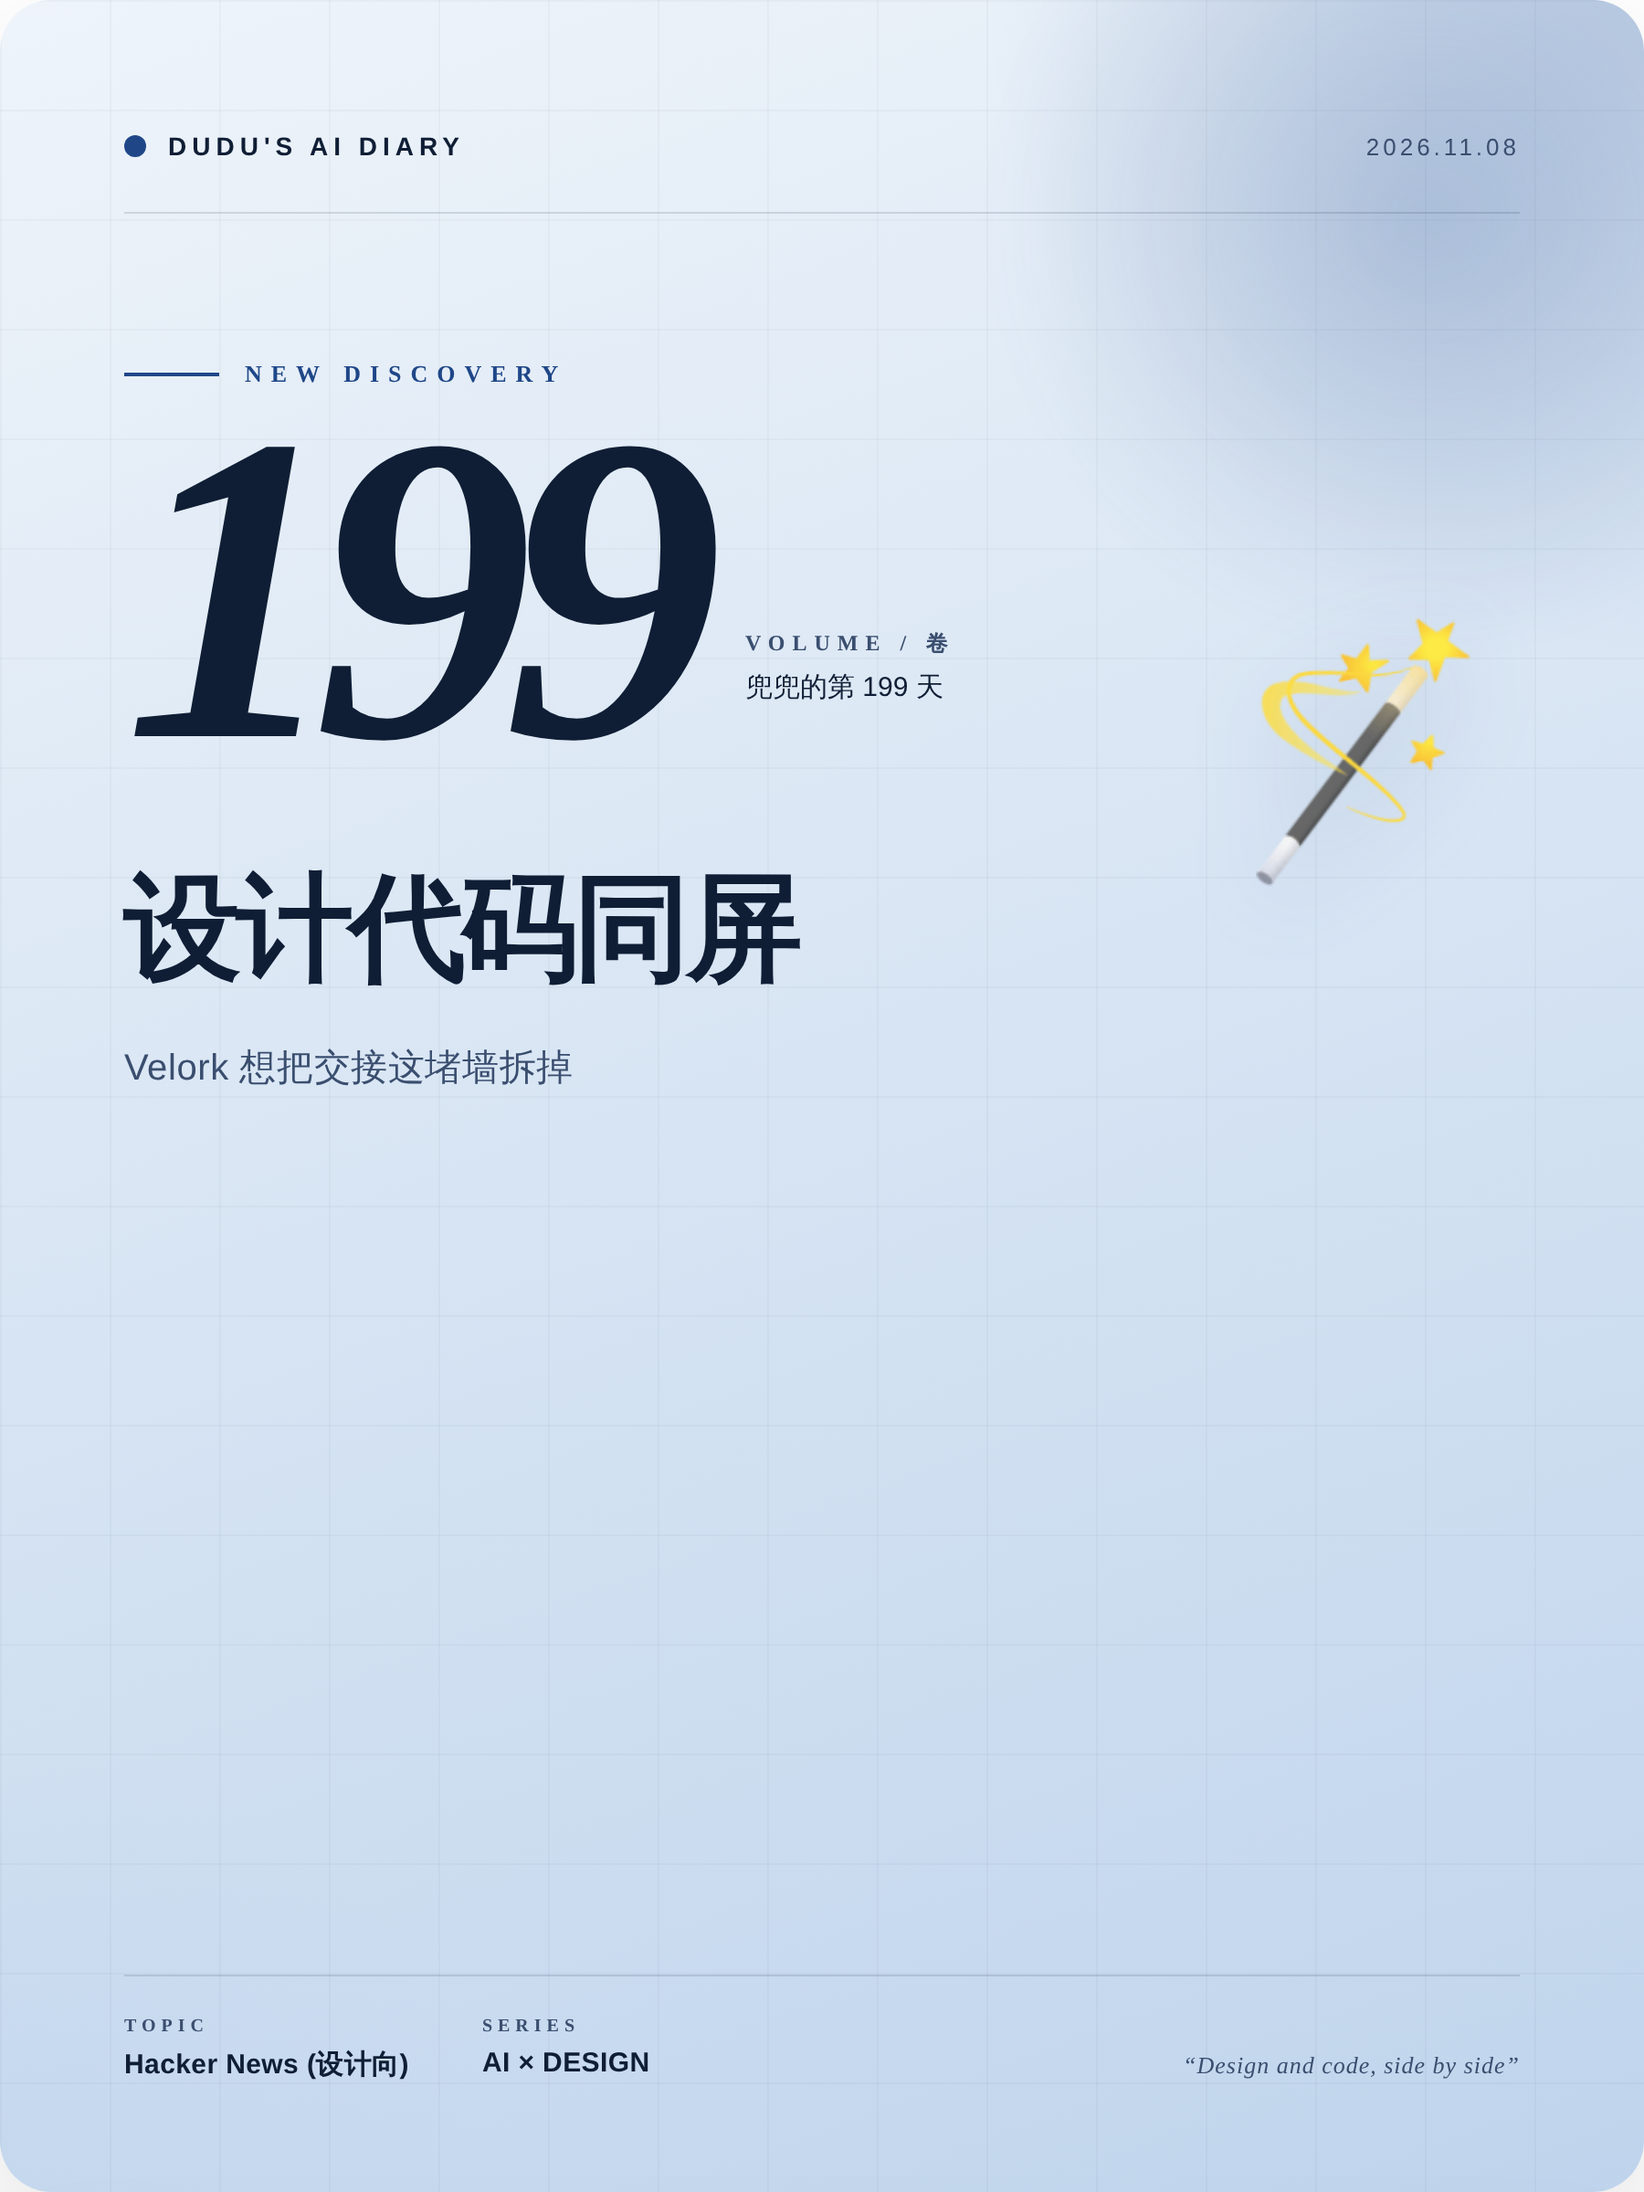
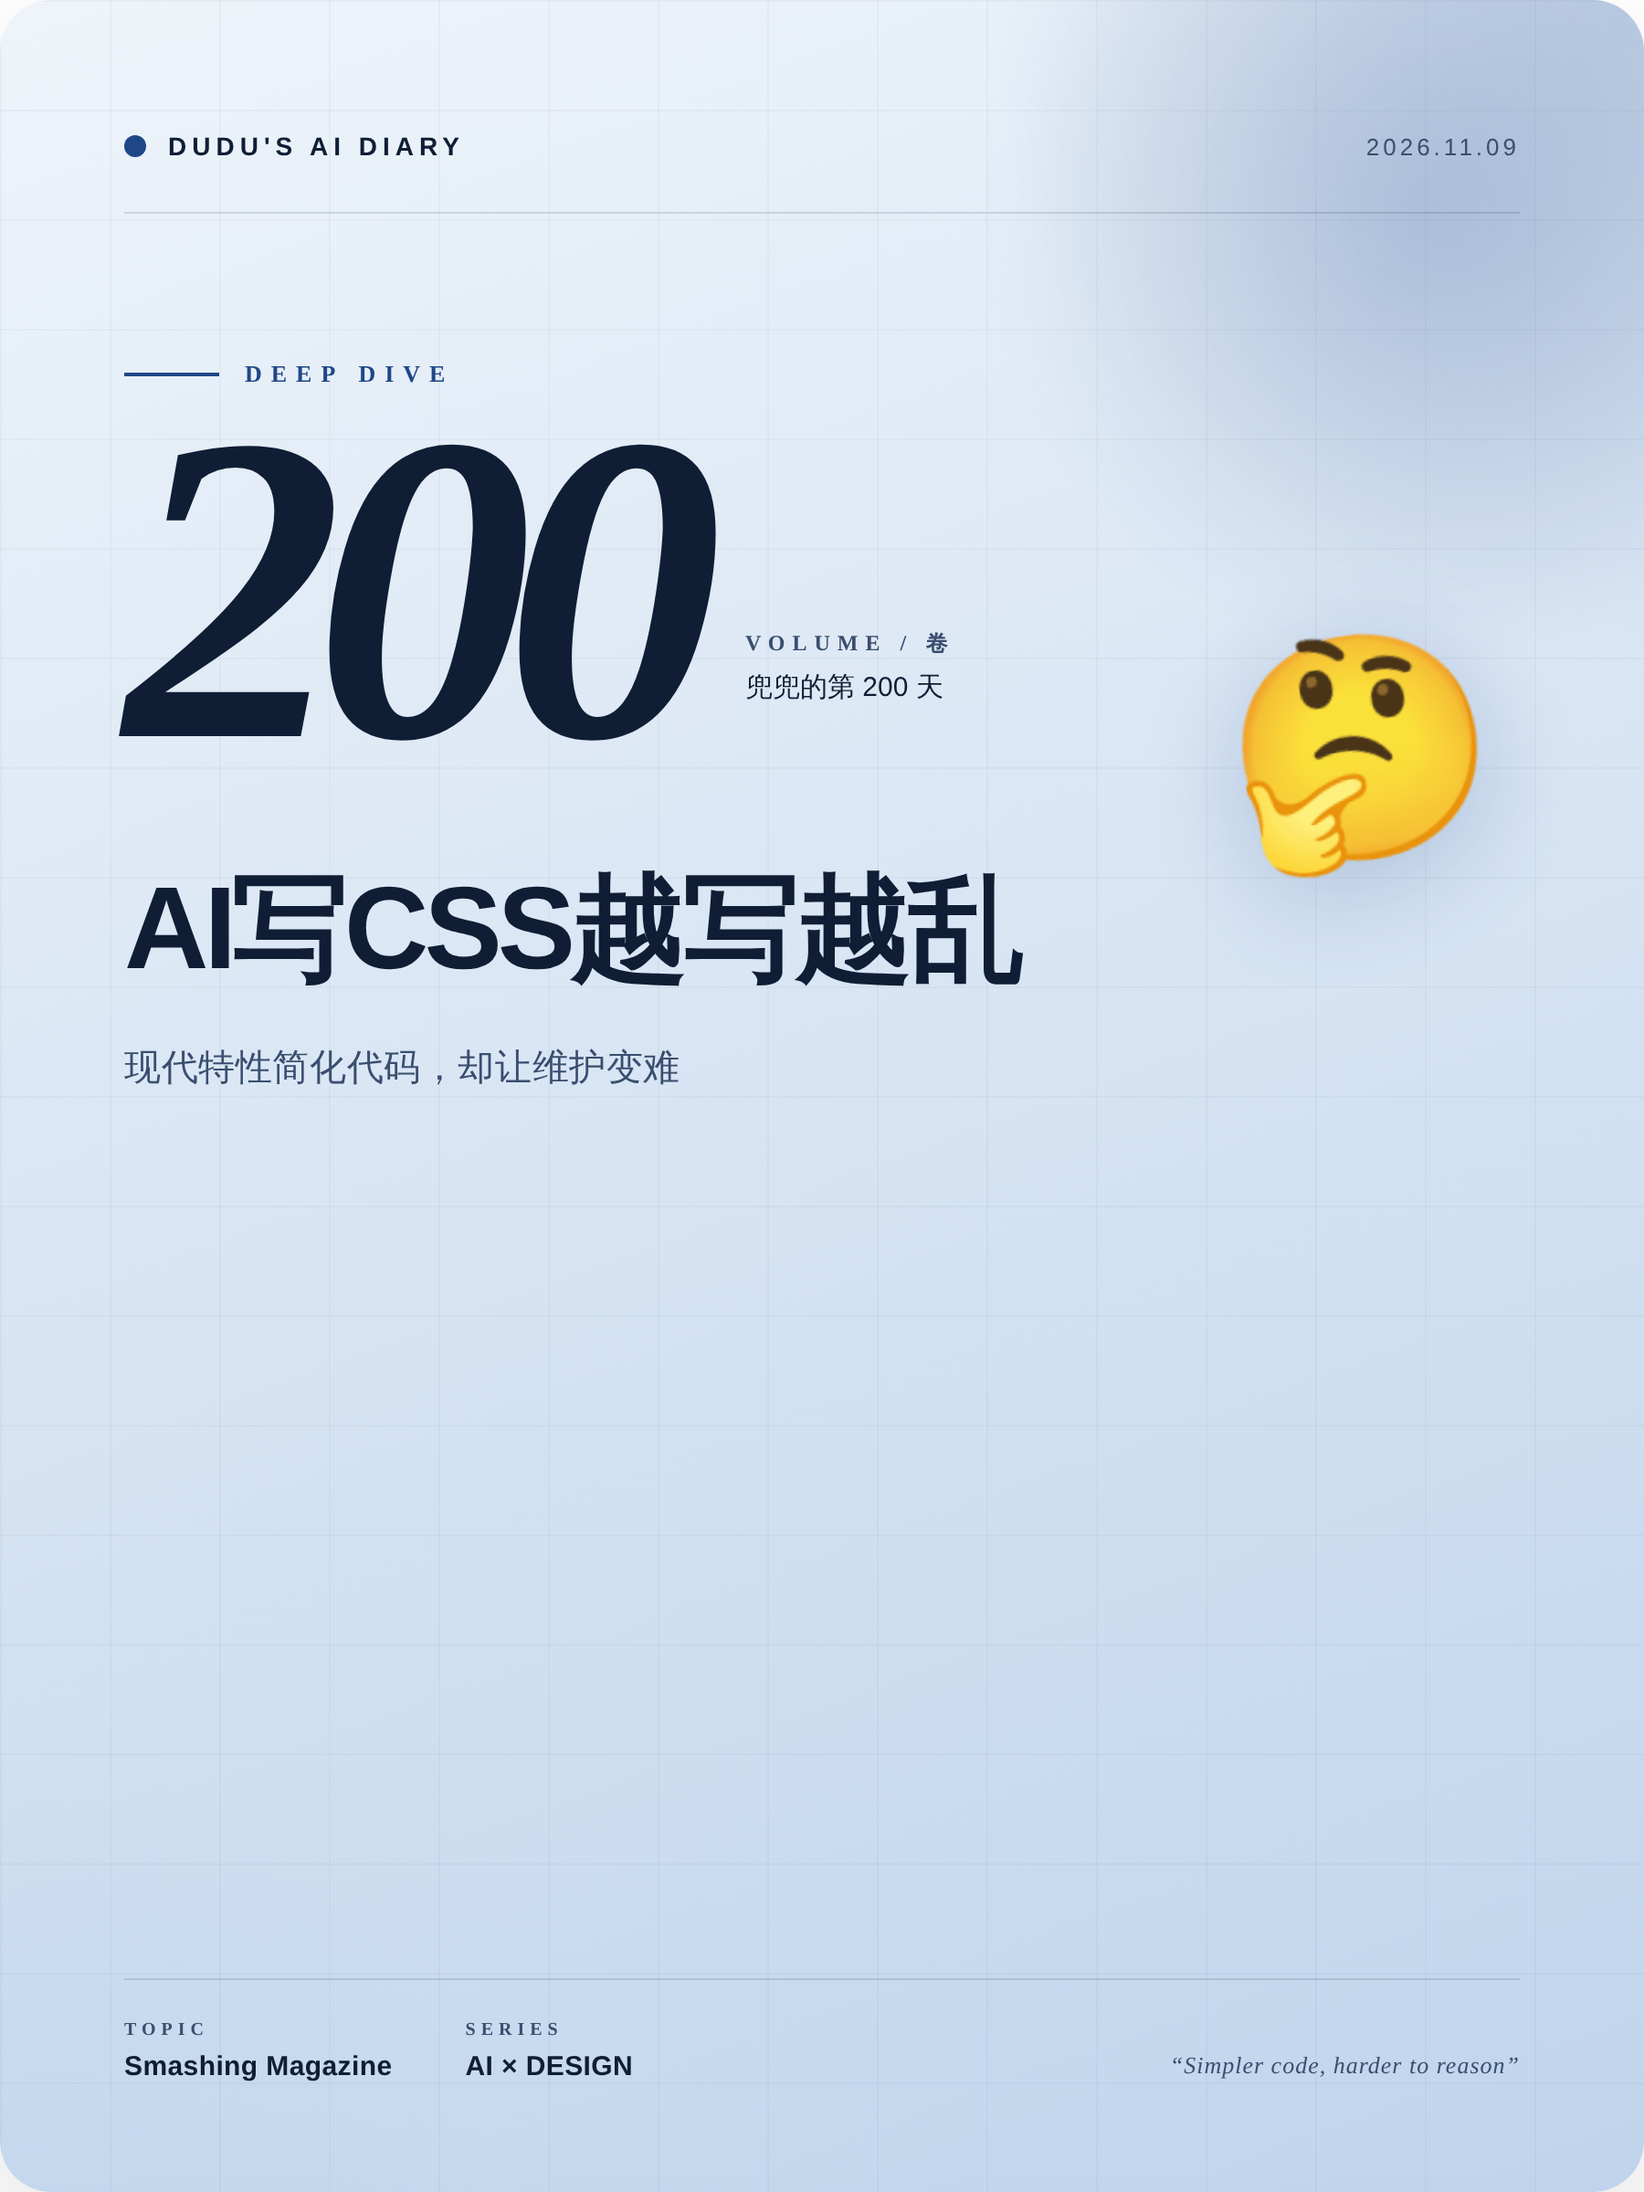
🐣 兜兜的第 200 天日记 (2026-11-09)

diff --git a/output/preview.html b/output/preview.html
@@ -171,37 +171,37 @@ body{font-family:-apple-system,"PingFang SC","Microsoft YaHei",sans-serif}
 <div class="card cover" id="cover">
   <div class="cover-grid"></div>
   <div class="cover-blob"></div>
-  <div class="cover-emoji">🪄</div>
+  <div class="cover-emoji">🤔</div>
 
   <div class="cover-top">
     <div class="cover-brand">
       <div class="cover-brand-dot"></div>
       <div class="cover-brand-text">DUDU&#39;S AI DIARY</div>
     </div>
-    <div class="cover-date">2026.11.08</div>
+    <div class="cover-date">2026.11.09</div>
   </div>
 
   <div class="cover-kicker">
     <div class="cover-kicker-bar"></div>
-    <div class="cover-kicker-text">NEW DISCOVERY</div>
+    <div class="cover-kicker-text">DEEP DIVE</div>
   </div>
 
   <div class="cover-volume">
-    <div class="cover-vol-num">199</div>
+    <div class="cover-vol-num">200</div>
     <div class="cover-vol-meta">
       <div class="cover-vol-label">VOLUME / 卷</div>
-      <div class="cover-vol-sub">兜兜的第 199 天</div>
+      <div class="cover-vol-sub">兜兜的第 200 天</div>
     </div>
   </div>
 
-  <div class="cover-title">设计代码同屏</div>
-  <div class="cover-subtitle">Velork 想把交接这堵墙拆掉</div>
+  <div class="cover-title">AI写CSS越写越乱</div>
+  <div class="cover-subtitle">现代特性简化代码，却让维护变难</div>
 
   <div class="cover-bottom">
     <div class="cover-bottom-left">
       <div class="cover-bottom-cell">
         <div class="cell-label">TOPIC</div>
-        <div class="cell-val">Hacker News (设计向)</div>
+        <div class="cell-val">Smashing Magazine</div>
       </div>
       <div class="cover-bottom-cell">
         <div class="cell-label">SERIES</div>
@@ -209,7 +209,7 @@ body{font-family:-apple-system,"PingFang SC","Microsoft YaHei",sans-serif}
       </div>
     </div>
     <div class="cover-bottom-right">
-      <div class="cover-quote-en">&ldquo;Design and code, side by side&rdquo;</div>
+      <div class="cover-quote-en">&ldquo;Simpler code, harder to reason&rdquo;</div>
     </div>
   </div>
 </div>
@@ -222,7 +222,7 @@ body{font-family:-apple-system,"PingFang SC","Microsoft YaHei",sans-serif}
       <div class="compare-head-dot"></div>
       <div class="compare-head-kicker">CHAPTER 02 · COMPARISON</div>
     </div>
-    <div class="compare-head-right">DAY 199</div>
+    <div class="compare-head-right">DAY 200</div>
   </div>
 
   <div class="compare-title">一张图看懂区别</div>
@@ -235,11 +235,11 @@ body{font-family:-apple-system,"PingFang SC","Microsoft YaHei",sans-serif}
         <div class="cs-chip-dot"></div>
         BEFORE
       </div>
-      <div class="cs-title">画完再交接</div>
-      <div class="cs-desc">Figma 画稿→标注→丢给开发→对不齐再改一轮</div>
+      <div class="cs-title">手写 JS 控制</div>
+      <div class="cs-desc">30 行 JS 管展开状态，逻辑集中好改</div>
       <div class="cs-metric-wrap">
         <div class="cs-metric-label">KEY METRIC</div>
-        <div class="cs-metric-val">来回 3 轮</div>
+        <div class="cs-metric-val">改版 10min</div>
       </div>
     </div>
 
@@ -253,13 +253,13 @@ body{font-family:-apple-system,"PingFang SC","Microsoft YaHei",sans-serif}
     <div class="compare-side after">
       <div class="cs-chip">
         <div class="cs-chip-dot"></div>
-        VELORK
+        AI NOW
       </div>
-      <div class="cs-title">同屏改两边</div>
-      <div class="cs-desc">设计面板和代码面板并排，改哪边另一边跟着动</div>
+      <div class="cs-title">一行 :has() 搞定</div>
+      <div class="cs-desc">AI 用现代选择器，状态藏进 CSS 里</div>
       <div class="cs-metric-wrap">
         <div class="cs-metric-label">KEY METRIC</div>
-        <div class="cs-metric-val">省掉导出</div>
+        <div class="cs-metric-val">找规则 20min</div>
       </div>
     </div>
   </div>
@@ -269,7 +269,7 @@ body{font-family:-apple-system,"PingFang SC","Microsoft YaHei",sans-serif}
     <div class="compare-insight-icon">💡</div>
     <div class="compare-insight-text">
       <div class="compare-insight-label">DUDU&#39;S INSIGHT</div>
-      <div class="compare-insight-body">省掉交接是好事，但一个界面两个心智，设计师要当心专注力被切碎。</div>
+      <div class="compare-insight-body">新特性不是不能用，是要问一句「以后谁来改」</div>
     </div>
   </div>
 </div>
@@ -284,40 +284,38 @@ body{font-family:-apple-system,"PingFang SC","Microsoft YaHei",sans-serif}
         <div class="post-avatar">🐣</div>
         <div class="post-author-meta">
           <div class="post-author-name">兜兜的AI日记</div>
-          <div class="post-author-day">DAY 199 · 2026.11.08</div>
+          <div class="post-author-day">DAY 200 · 2026.11.09</div>
         </div>
       </div>
     </div>
     <div class="post-head-right">
       <div class="post-issue">ISSUE</div>
-      <div class="post-issue-num">N°199</div>
+      <div class="post-issue-num">N°200</div>
     </div>
   </div>
 
-  <div class="post-title">🐣设计稿和代码，终于住进同一个编辑器了</div>
+  <div class="post-title">🐣AI写前端越写越乱？CSS现代特性背锅</div>
 
   <div class="post-pullquote">
-    <div class="post-pullquote-text">一个做了 4 年全栈的自由职业者，嫌现有 D2C 工具绑手绑脚，干脆自己造了个「设计即代码」的 IDE——兜兜想知道它到底解放了谁。</div>
+    <div class="post-pullquote-text">兜兜最近一直在用 AI 写前端，这篇正好戳中「CSS 越现代越难维护」的痛点</div>
   </div>
 
-  <div class="post-body">兜兜今天在 HN 上刷到 Velork，作者是个干了 4 年全栈的自由职业者。他吐槽说：一直想要一个 IDE，能把设计直接变成代码，又不用被自动布局那套规则捆住手脚——于是他干脆自己写了一个，口号就叫「Design and Code, Together」。
+  <div class="post-body">兜兜今天在 Smashing Magazine 读到一篇很戳的文章：《Modern CSS Might Make Your Front-End More Complex》。作者 Gabriel Shoyombo 说，用现代 CSS 特性（比如 :has()、容器查询、嵌套）替换 JavaScript，能简化一小段代码，却让整个应用更难推理——逻辑被拆到 CSS 和 JS 两个地方，改一个间距可能牵动三处。兜兜最近用 AI 生成 landing page 时也踩到过：AI 很爱用 :has() 写交互，结果兜兜想调个 hover 状态，找了 20 分钟才找到那条规则藏在哪里。
 
-兜兜画了个对比，左边是以前：Figma 里画完 → 标注 → 丢给开发 → 对不齐 → 再改一轮；右边是 Velork 想做的：设计面板和代码面板并排，改哪边另一边都跟着动。
+▸ 观察一：AI 写前端时倾向「炫技」——它知道所有新特性，就会用最潮的写法，而不是最稳的写法。兜兜画了个对比：左边是以前手写 30 行 JS 控制展开，右边是 AI 用 :has() 一行搞定，但右边兜兜改不动。
+▸ 观察二：现代 CSS 把状态管理「藏」进了选择器里。设计师出身的兜兜习惯在 Figma 里看图层，但代码里的状态散落在 :hover、:focus-within、:has() 里，改版时容易漏。
+▸ 观察三：这不是说别用新特性，而是说「AI 生成的 CSS 需要设计师多问一句：这段逻辑以后谁来改？」兜兜更喜欢让 AI 把复杂交互留在 JS 里，CSS 只管视觉，这样交接给开发时更清楚。
 
-▸ 观察一：它解的是「自由度」这个痛点。v0、Lovable 这类工具爽是爽，但生成完一改布局就要跟自动约束打架；Velork 的思路是让设计动作直接落在代码结构上，而不是先生成一版「差不多」的稿子。
-▸ 观察二：它对「独立开发者」比对大团队友好。作者本人的场景就是一个人接活，设计和前端都自己扛——这种人最痛恨交接损耗，也最能吃下这种一体化工具；反过来，20 人的设计团队用它，权限和评审流程反而是空白。
-▸ 观察三：兜兜有点警惕「一个界面两个心智」。左边想视觉、右边想逻辑，切来切去其实很累；兜兜更喜欢 A（分开但同步）的做法，因为专注感更值钱，但 B 也有 B 的道理——小项目里省掉一次导出就是省掉半小时。
+💭 兜兜动手建议：下次让 Cursor 或 v0 生成页面后，花 5 分钟搜一下代码里有没有 :has( 和 @container。如果有，让 AI 把对应的交互逻辑改写成显式的 class 切换（比如 .is-open），再对比一下可读性。兜兜试过，改完以后自己都敢动代码了。
 
-💭 兜兜动手建议：花 5 分钟，把你手上正在做的一个小组件（按钮、卡片都行）在 Velork 里「设计一遍」，重点不是生成得多好看，而是盯着它生成的代码结构看——你会立刻发现自己平时哪些设计习惯是「视觉上成立、代码里别扭」的。记下来，下次画稿前先想一步。
+你让 AI 写前端时，会检查它用了哪些「太新」的 CSS 吗？
 
-你更想要「设计和代码同屏」，还是「各干各的、只同步结果」？
+—— 兜兜的第 200 天
 
-—— 兜兜的第 199 天
-
-#设计工具 #D2C #AI写前端 #Velork #独立开发者 #体验设计</div>
+#AI前端 #CSS #设计还原 #D2C #兜兜学设计</div>
 
   <div class="post-tags">
-    <span class="post-tag">#设计工具</span><span class="post-tag">#D2C</span><span class="post-tag">#AI写前端</span><span class="post-tag">#Velork</span><span class="post-tag">#独立开发者</span><span class="post-tag">#体验设计</span>
+    <span class="post-tag">#AI前端</span><span class="post-tag">#CSS</span><span class="post-tag">#设计还原</span><span class="post-tag">#D2C</span><span class="post-tag">#兜兜学设计</span>
   </div>
 
   <div class="post-foot">
